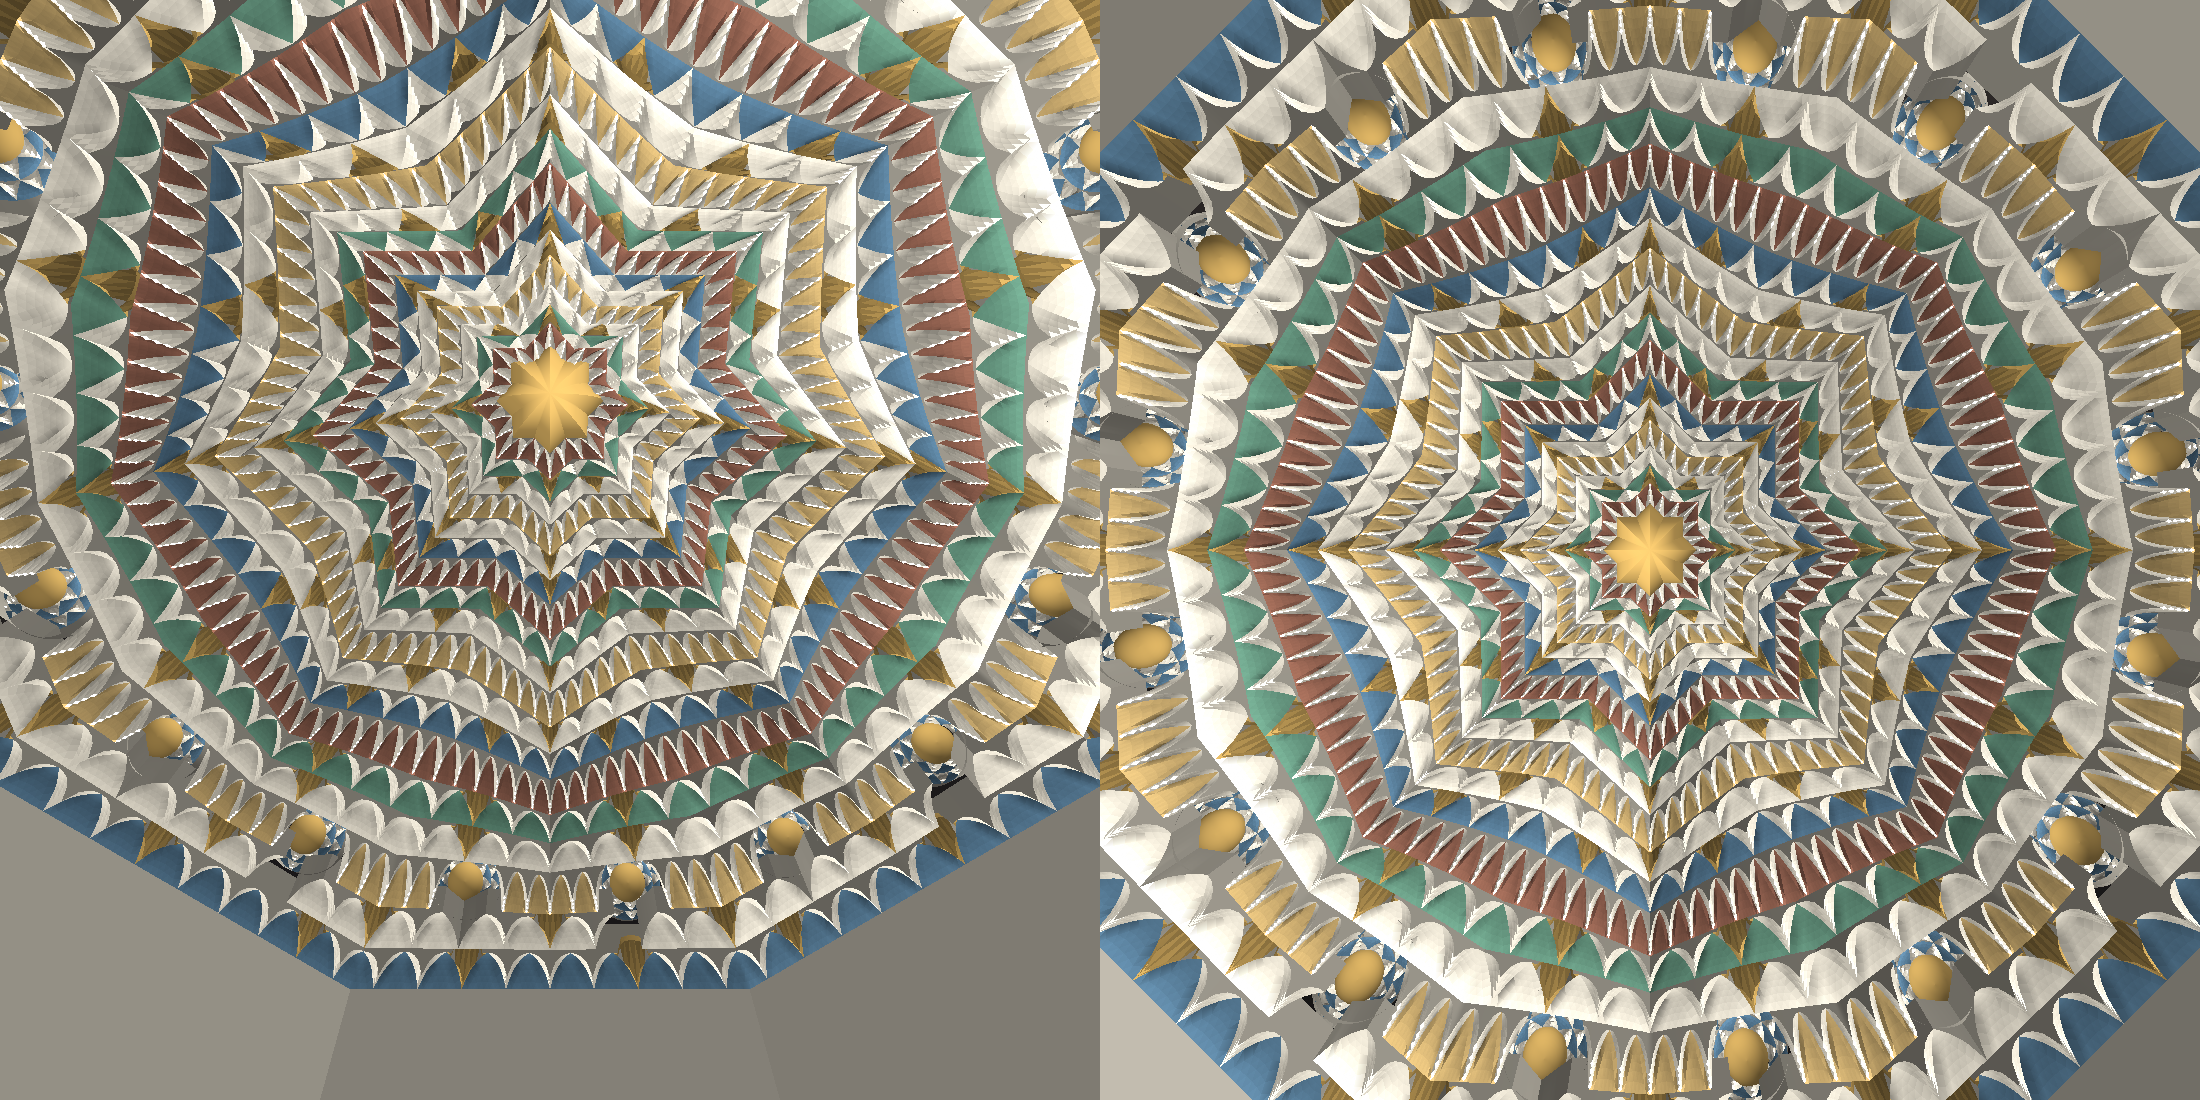
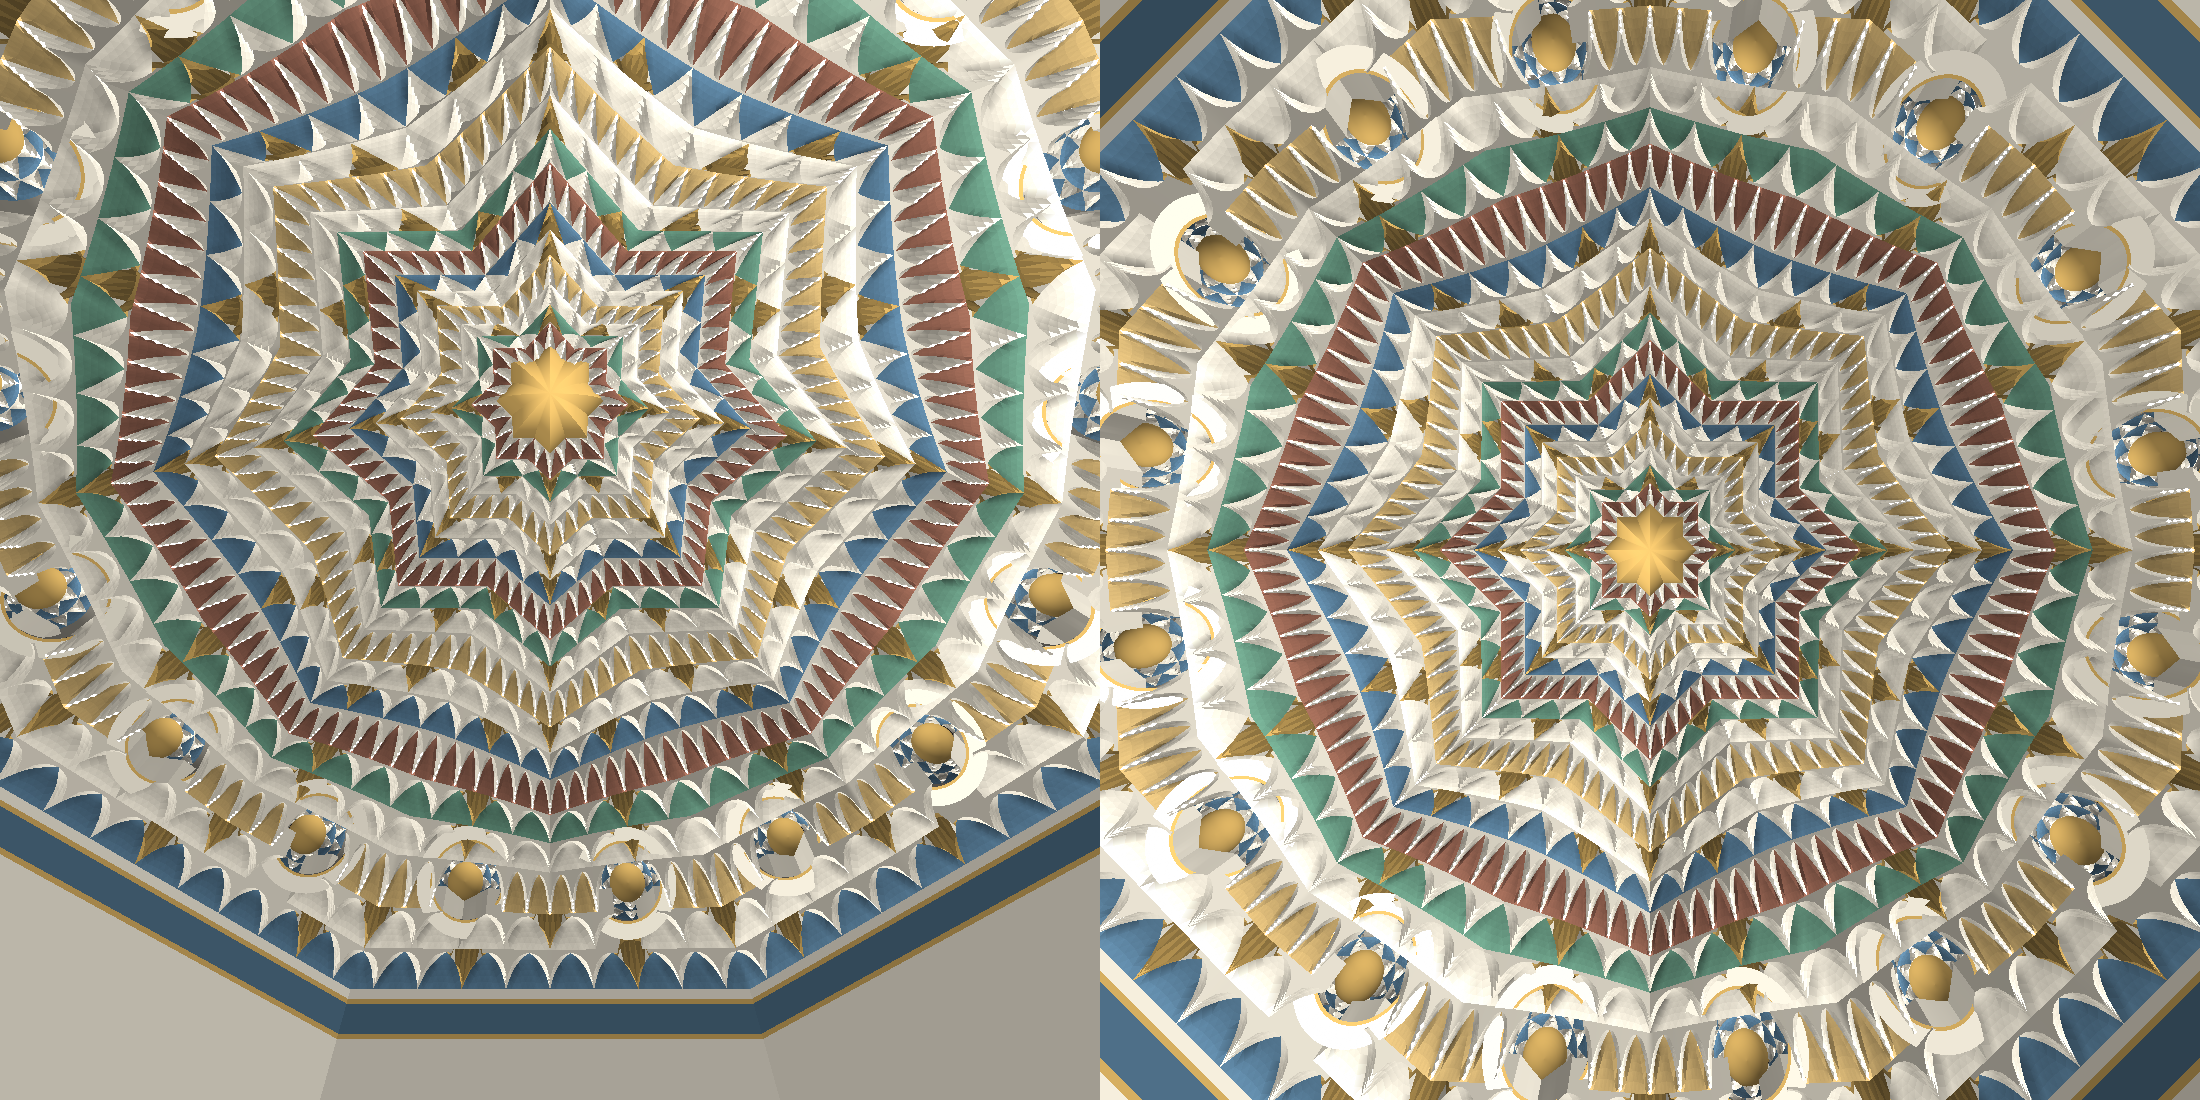
feat(color): quita el gris: filetes de yeso, marco de los cupulines y friso
Lo gris eran tres cosas (comprobado con un render de diagnostico):
las caras verticales entre hiladas, en penumbra a 0,6; las caras de las
piezas vecinas al aire en el borde de cada cupulin; y el tambor apagado.

- Caras verticales a 0,9 de luz: se leen como filetes de yeso.
- Cada cupulin lleva un marco de yeso con filete de oro, en su plano,
  justo bajo las patas vecinas, que tapa el corte (MARCO_CUPULIN).
- El tambor, en bandas: zocalo, filetes de oro y friso azul (FRISO_TAMBOR).

Todo eleccion estetica.

diff --git a/granada/cupula.py b/granada/cupula.py
@@ -39,13 +39,15 @@ Modelo, declarado:
   Asi la trasera de cada hilada cae exactamente en el frente de la anterior; a
   cambio las piezas se tuercen donde el contorno no es perpendicular al radio.
   El oficio usa piezas rectas;
-- la cupulilla de cierre y el tambor son superficies de relleno;
+- la cupulilla de cierre y el tambor son superficies de relleno; el tambor
+  lleva un friso azul entre filetes de oro (`FRISO_TAMBOR`), por estetica;
 - **los 16 cupulines**: posicion y diametro medidos en la ortoimagen
   (`datos/cupulines.json`, `scripts/medir_cupulines.py`, con escala supuesta).
   Cada cupulin tiene el eje normal al cono (inclinado atan(1,28) = 52 grados
   de la vertical: eleccion, no medida). Se quitan las piezas de la trama cuyo
   centroide cae en su cilindro, se pone un pocillo poco profundo que tapa el
-  corte y encima una cupula pequena con piezas a escala 0,4. Su interior no esta leido; la forma real es una cupulita de
+  corte y encima una cupula pequena con piezas a escala 0,4. Un marco de yeso
+  con filete de oro (`MARCO_CUPULIN`) tapa el borde del corte. Su interior no esta leido; la forma real es una cupulita de
   mocarabes que aqui solo se imita.
 """
 
@@ -286,6 +288,54 @@ def _tambor(planta: Planta, radio: float, abajo: float, arriba: float, n: int = 
     return V, F
 
 
+FRISO_TAMBOR = (
+    # (cota inferior, cota superior, color, luz) en unidades del cateto,
+    # con 0 en el arranque de la cupula. Eleccion estetica.
+    (-6.0, -1.5, "yeso", 0.95),
+    (-1.5, -1.35, "oro", 1.0),
+    (-1.35, -0.45, "azul", 0.9),
+    (-0.45, -0.3, "oro", 1.0),
+    (-0.3, None, "yeso", 0.95),
+)
+
+
+def _tambor_friso(planta: Planta, radio: float, arriba: float, n: int = 384):
+    """Tambor en bandas horizontales: zocalo, filetes de oro y friso."""
+    V: list[Punto3] = []
+    F = []
+    C: list[str] = []
+    S: list[float] = []
+    for z0, z1, color, luz in FRISO_TAMBOR:
+        Vb, Fb = _tambor(planta, radio, z0, arriba if z1 is None else z1, n)
+        b = len(V)
+        V.extend(Vb)
+        F.extend((p + b, q + b, r + b) for p, q, r in Fb)
+        C.extend([color] * len(Fb))
+        S.extend([luz] * len(Fb))
+    return V, F, C, S
+
+
+def _corona(radio_in: float, radio_out: float, z: float, n: int = 64):
+    """Corona plana en el plano z del marco local."""
+    V: list[Punto3] = []
+    F = []
+    for i in range(n):
+        a = 2 * math.pi * i / n
+        V.append((radio_in * math.cos(a), radio_in * math.sin(a), z))
+        V.append((radio_out * math.cos(a), radio_out * math.sin(a), z))
+    for i in range(n):
+        a, b = 2 * i, 2 * ((i + 1) % n)
+        F.append((a, b, b + 1))
+        F.append((a, b + 1, a + 1))
+    return V, F
+
+
+MARCO_CUPULIN = 1.45
+"""Radio exterior del marco de yeso de cada cupulin, respecto al hueco."""
+FILETE_CUPULIN = 0.08
+"""Ancho del filete de oro en el borde del hueco, en unidades del cateto."""
+
+
 @dataclass(frozen=True)
 class Cupulin:
     """Una de las 16 cupulas pequenas del anillo exterior, en unidades del cateto."""
@@ -428,6 +478,19 @@ def cupulin(c: Cupulin, profundidad: float, subdivision: int = 5, plantillas=Non
     F.extend((p + b, q + b, r + b) for p, q, r in Ft)
     C.extend(["yeso"] * len(Ft))
     S.extend([0.55] * len(Ft))
+    # Marco: corona de yeso justo por debajo de las patas de las piezas
+    # vecinas, que tapa el corte de la trama, con un filete de oro en el borde.
+    bajo = -0.03
+    for r0, r1, color, luz in (
+        (c.radio, c.radio + FILETE_CUPULIN, oro, 1.0),
+        (c.radio + FILETE_CUPULIN, c.radio * MARCO_CUPULIN, "yeso", 0.95),
+    ):
+        Vr, Fr = _corona(r0, r1, bajo)
+        b = len(local)
+        local.extend(Vr)
+        F.extend((p + b, q + b, r + b) for p, q, r in Fr)
+        C.extend([color] * len(Fr))
+        S.extend([luz] * len(Fr))
     o, e1, e2, n = c.marco(radio_base)
     L = np.asarray(local)
     G = o + L[:, :1] * e1 + L[:, 1:2] * e2 + L[:, 2:3] * n
@@ -472,7 +535,7 @@ def cupula(
     Vt, Ft = _tambor(planta, radio_base, -6.0, 2 * hiladas[0].paso)
     if color:
         grupos.append(("cupulilla", Vc, Fc, ["oro"] * len(Fc), [0.95] * len(Fc)))
-        grupos.append(("tambor", Vt, Ft, ["yeso"] * len(Ft), [0.75] * len(Ft)))
+        grupos.append(("tambor", *_tambor_friso(planta, radio_base, 2 * hiladas[0].paso)))
     else:
         grupos.append(("cupulilla", Vc, Fc))
         grupos.append(("tambor", Vt, Ft))

diff --git a/granada/piezas.py b/granada/piezas.py
@@ -319,17 +319,18 @@ def etiquetas(p: Pieza, V, F, tolerancia: float = 1e-9) -> list[str]:
     return fuera
 
 
-SOMBRA_PARED = 0.6
-SOMBRA_TAPA = 0.5
+SOMBRA_PARED = 0.9
+"""Las caras verticales que asoman entre hiladas se leen como filetes de yeso
+claro, como en los mocarabes reales; en penumbra salian grises."""
+SOMBRA_TAPA = 0.85
 
 
 def oclusion(p: Pieza, V, F, etiqueta: list[str]) -> list[float]:
     """Factor de luz por triangulo (1 = sin sombra). Eleccion estetica.
 
     Imita la oclusion ambiental de una celdilla: en el fondo curvo, cuanto mas
-    sube dentro de la pieza, menos luz le llega; las paredes quedan en
-    penumbra, porque en la cupula montada son el fondo de las juntas entre
-    hiladas, y las tapas casi no se ven.
+    sube dentro de la pieza, menos luz le llega; las paredes quedan
+    casi a plena luz, porque entre hiladas se leen como filetes de yeso.
     """
     paso = p.altura / 2
     fuera = []
